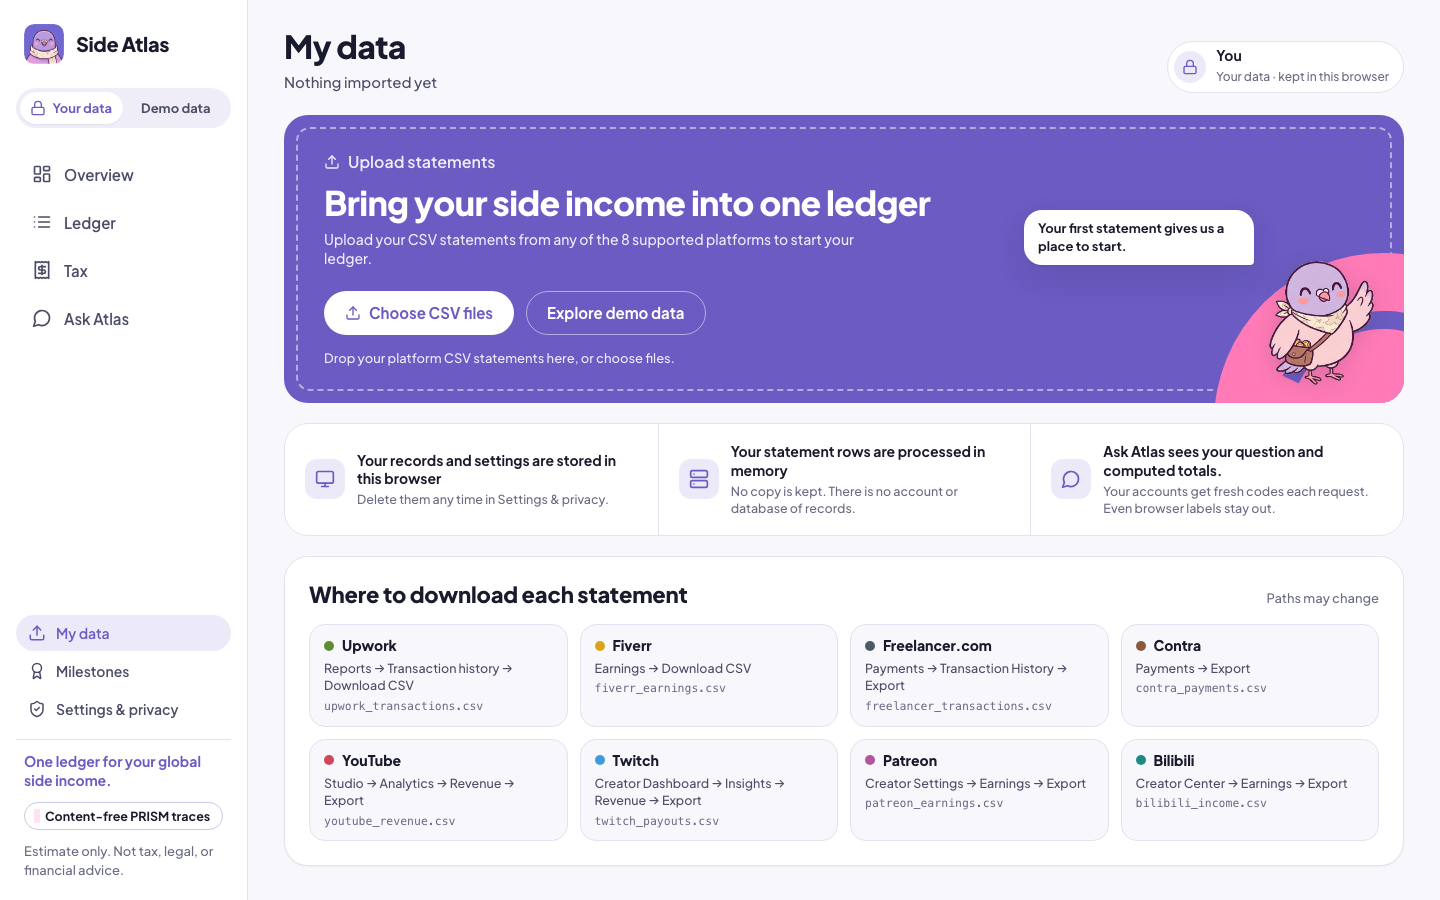
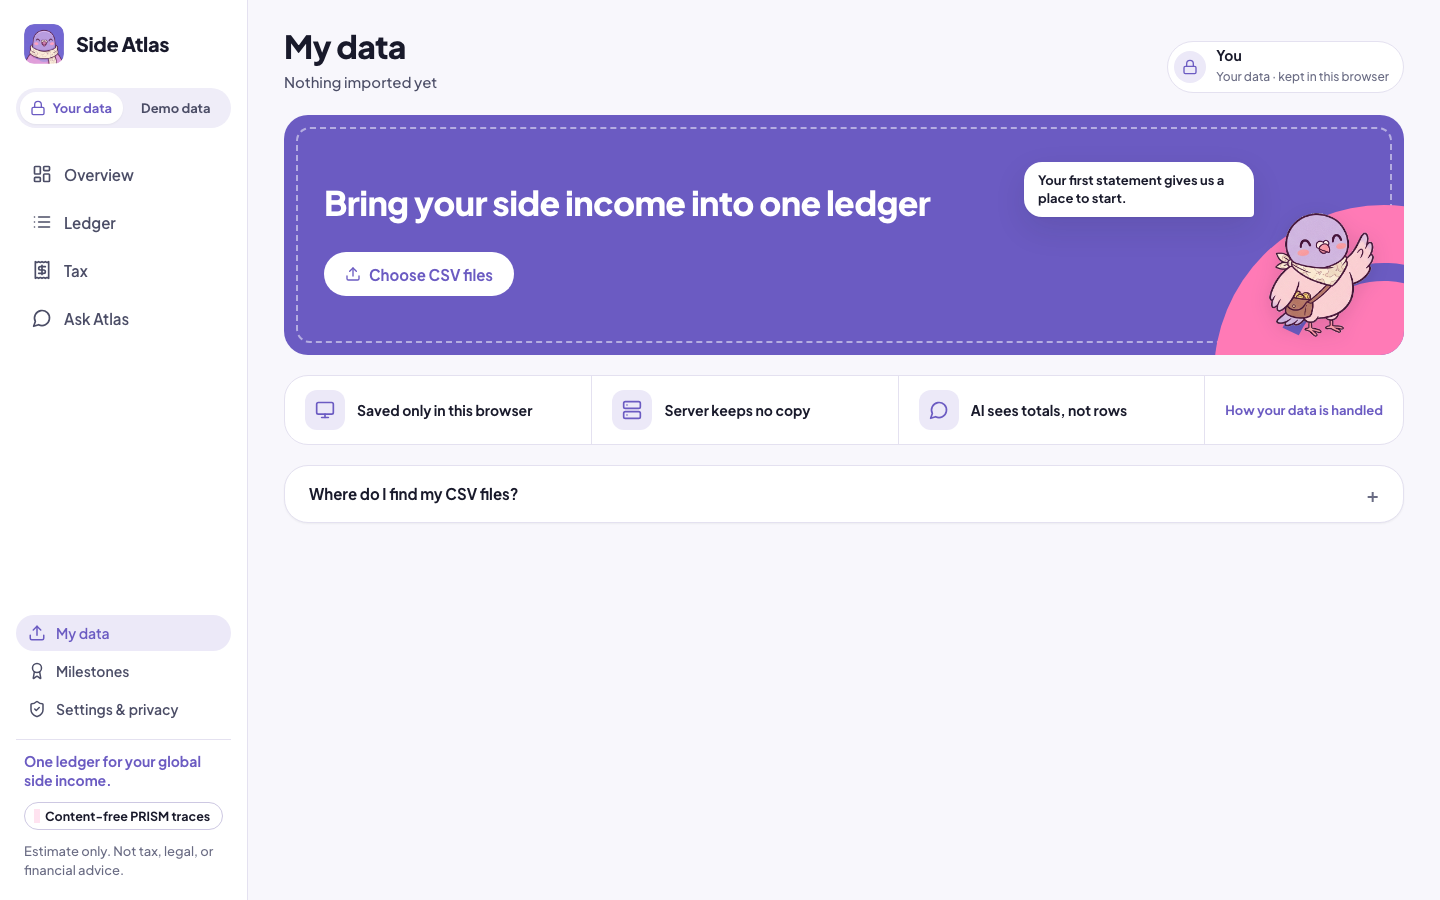
My data empty state: less text (kit v1.4.1)
One headline, the mascot bubble and one button; short privacy promises with a link to
Settings & privacy; download paths folded into a details card. Removed the drop hint,
Explore demo data and Try sample statements.

diff --git a/web/screens/mydata.js b/web/screens/mydata.js
@@ -4,7 +4,6 @@
 import { YOURS } from "../lib/copy.js";
 import { dateShort, esc, icon, monthShort, pcol, quarterOf } from "../lib/format.js";
 import { mascot } from "../lib/mascot.js";
-import { setMode } from "../lib/prefs.js";
 import * as store from "../lib/store.js";
 import { bodyBytes, labeler, prepare, shortLabel } from "../lib/statements.js";
 import { formats, invalidate, post } from "../lib/personal.js";
@@ -31,8 +30,9 @@ const MARGIN = 20_000; // room for the settings and the rest of a request body
 
 let notes = []; // [{ kind: "info" | "warn", text }] from the last import, shown until the next one
 
-export const promiseStrip = () => `<ul class="sa-promise c12">${[["monitor", X.PROMISE_BROWSER, X.PROMISE_BROWSER_SMALL], ["server", X.PROMISE_SERVER, X.PROMISE_SERVER_SMALL], ["ask", X.PROMISE_AI, X.PROMISE_AI_SMALL]]
-  .map(([ic, t, sm]) => `<li><span class="ic">${icon(ic)}</span><span>${t}<small>${sm}</small></span></li>`).join("")}</ul>`;
+// Kit v1.4.1: three short promises; the details live in Settings & privacy.
+const promiseStrip = () => `<ul class="sa-promise short c12">${[["monitor", X.PROMISE_BROWSER], ["server", X.PROMISE_SERVER], ["ask", X.PROMISE_AI]]
+  .map(([ic, t]) => `<li><span class="ic">${icon(ic)}</span><span>${t}</span></li>`).join("")}<li class="more"><a href="#settings">${X.PROMISE_MORE}</a></li></ul>`;
 
 const fileInput = `<input type="file" data-files accept=".csv,text/csv,.txt,.json,application/json" multiple hidden>`;
 
@@ -49,24 +49,20 @@ function emptyView(ctx) {
   <div class="sa-grid">
     ${ctx.data.persistent ? "" : `<div class="c12 sa-note warn">${icon("alert", "sm")}<span>${X.STORAGE_OFF}</span></div>`}
     ${noteList()}
-    <section class="sa-hero drop c12" data-drop>
+    <section class="sa-hero drop slim c12" data-drop>
       <div class="orb"></div>
       ${mascot("wave", "hero-mascot")}
       <div class="sa-speech mydata-speech">${X.EMPTY_MASCOT}</div>
-      <div class="lead" style="display:flex;gap:8px;align-items:center">${icon("upload", "sm")} Upload statements</div>
       <div class="title">${X.MYDATA_HEADLINE}</div>
-      <div class="sub" style="max-width:560px">${X.MYDATA_SUB}</div>
-      <div class="actions"><button type="button" class="sa-btn on-dark" data-choose>${icon("upload", "sm")} Choose CSV files</button><button type="button" class="sa-btn ghost-dark" data-demo>Explore demo data</button></div>
-      <div class="hint">${X.DROP_HINT}</div>
-      <div class="hint"><button type="button" class="hero-link" data-samples>Try sample statements</button> · ${X.SAMPLES_HINT}</div>
+      <div class="actions"><button type="button" class="sa-btn on-dark" data-choose>${icon("upload", "sm")} Choose CSV files</button></div>
       ${fileInput}
     </section>
     ${promiseStrip()}
     ${unread.length ? filesCard(ctx, null, null) : ""}
-    <section class="sa-card c12">
-      <div class="head"><h2>Where to download each statement</h2><span class="meta">Paths may change</span></div>
-      <div class="sa-where">${WHERE.map(([k, f, w]) => `<div><b><i class="sa-pdot" style="background:${pcol(k).fill}"></i>${LABEL[k]}</b><div class="path">${w}</div><span class="mono">${f}</span></div>`).join("")}</div>
-    </section>
+    <details class="sa-card sa-howto c12">
+      <summary>${X.WHERE_TITLE}</summary>
+      <div class="sa-where">${WHERE.map(([k, , w]) => `<div><b><i class="sa-pdot" style="background:${pcol(k).fill}"></i>${LABEL[k]}</b><div class="path">${w}</div></div>`).join("")}</div>
+    </details>
   </div>`;
 }
 
@@ -264,21 +260,10 @@ export async function loadBackup(file) {
   await check(next);
 }
 
-async function samples(ctx) {
-  const idx = await (await fetch("demo/samples/index.json", { cache: "no-store" })).json();
-  const files = await Promise.all(idx.files.map(async name => {
-    const blob = await (await fetch(`demo/samples/${name}`, { cache: "no-store" })).blob();
-    return new File([blob], name, { type: "text/csv" });
-  }));
-  await importAll(files, ctx);
-}
-
 export function mount(ctx, root) {
   const input = root.querySelector("[data-files]");
   root.querySelectorAll("[data-choose]").forEach(b => b.addEventListener("click", () => input?.click()));
   input?.addEventListener("change", () => importAll(input.files, ctx));
-  root.querySelector("[data-samples]")?.addEventListener("click", () => samples(ctx));
-  root.querySelector("[data-demo]")?.addEventListener("click", () => { setMode("demo"); location.hash = "#overview"; });
   const zone = root.querySelector("[data-drop]");
   if (zone) {
     zone.addEventListener("dragover", ev => { ev.preventDefault(); zone.classList.add("over"); });

diff --git a/web/lib/copy.js b/web/lib/copy.js
@@ -30,12 +30,12 @@ export const COPY = {
 // plus the lines the build needed that the kit doesn't draw (GPT-6 Astra, 2026-10-17, second block).
 export const YOURS = {
   MYDATA_HEADLINE: "Bring your side income into one ledger",
-  MYDATA_SUB: "Upload your CSV statements from any of the 8 supported platforms to start your ledger.",
-  DROP_HINT: "Drop your platform CSV statements here, or choose files.",
-  PROMISE_BROWSER: "Your records and settings are stored in this browser",
-  PROMISE_SERVER: "Your statement rows are processed in memory",
-  PROMISE_AI: "Ask Atlas sees your question and computed totals.",
   EMPTY_MASCOT: "Your first statement gives us a place to start.",
+  PROMISE_BROWSER: "Saved only in this browser",
+  PROMISE_MORE: "How your data is handled",
+  WHERE_TITLE: "Where do I find my CSV files?",
+  PROMISE_SERVER: "Server keeps no copy",
+  PROMISE_AI: "AI sees totals, not rows",
   IMPORTED_SUB: "Your {files} files added {records} records to your ledger in this browser.",
   SETTINGS_SUB: "Choose your tax home and display currency. Your set-aside rate is up to you.",
   PRIVACY_INTRO: "Before upload, your browser replaces account IDs with short labels such as \"Upwork · acct ••4821\".",
@@ -49,9 +49,6 @@ export const YOURS = {
   MAP_SERVER: "Your labeled statement rows reach the server for in-memory calculation. No copy is kept.",
   MAP_AI: "Your question goes to Ask Atlas as typed, with totals and fresh account codes. Statement rows stay out.",
   MAP_PRISM: "Your traces: step and tool names, timings, token counts and status. No question, answer, tool data or amounts.",
-  PROMISE_BROWSER_SMALL: "Delete them any time in Settings & privacy.",
-  PROMISE_SERVER_SMALL: "No copy is kept. There is no account or database of records.",
-  PROMISE_AI_SMALL: "Your accounts get fresh codes each request. Even browser labels stay out.",
   TAXHOME_HELP_CN: "Tax shows China's annual filing window and tax withheld by Bilibili. Pick Both if you also file in the US.",
   CURRENCY_HELP: "Choose USD or CNY. Your records keep their own currencies. CNY display converts USD records using your rate file, or ECB rates if you have no file for that currency.",
   FILES_NOTE: "Removing a file removes its records from this browser.",
@@ -92,7 +89,6 @@ export const YOURS = {
   NOT_READ: "{file} was not read",
   BACKUP_BAD: "This file is not a Side Atlas backup.",
   BACKUP_LOADED: "Backup loaded. {n} statements added.",
-  SAMPLES_HINT: "Fictional statements for Moon Spirit, the demo creator, labeled like your own files.",
   ASK_OFF_TITLE: "Ask Atlas unavailable for uploads",
   ASK_EXAMPLE_1: "How much did I actually earn across platforms last month?",
   ASK_EXAMPLE_2: "Which platform kept the most of each dollar I earned?",

diff --git a/design/Side-Atlas-Design-Kit v1/07-mockups/app.html b/design/Side-Atlas-Design-Kit v1/07-mockups/app.html
@@ -438,26 +438,25 @@ const WHERE = [
 const promise = () => [["monitor", X.PROMISE_BROWSER, X.PROMISE_BROWSER_SMALL], ["server", X.PROMISE_SERVER, X.PROMISE_SERVER_SMALL], ["ask", X.PROMISE_AI, X.PROMISE_AI_SMALL]]
   .map(([ic, t, sm]) => `<li><span class="ic">${icon(ic)}</span><span>${t}<small>${sm}</small></span></li>`).join("");
 
-/* ---------------- 10 · My data, empty ---------------- */
+/* ---------------- 10 · My data, empty (v1.4.1: one headline, one button, three short promises) ---------------- */
+const promiseShort = () => [["monitor", "Saved only in this browser"], ["server", "Server keeps no copy"], ["ask", "AI sees totals, not rows"]]
+  .map(([ic, t]) => `<li><span class="ic">${icon(ic)}</span><span>${t}</span></li>`).join("");
 function mydataEmpty() {
   return `
   <div class="sa-top"><div><h1>My data</h1><p>Nothing imported yet</p></div><div class="right">${you()}</div></div>
   <div class="sa-grid">
-    <section class="sa-hero drop c12">
+    <section class="sa-hero drop slim c12">
       <div class="orb"></div>
       <img class="sa-mascot hero-mascot" src="../02-logos/mascot/wave.png" alt="">
       <div class="sa-speech" style="right:150px;bottom:138px">${X.EMPTY_MASCOT}</div>
-      <div class="lead" style="display:flex;gap:8px;align-items:center">${icon("upload", "sm")} Upload statements</div>
       <div class="title">${X.MYDATA_HEADLINE}</div>
-      <div class="sub" style="max-width:560px">${X.MYDATA_SUB}</div>
-      <div class="actions"><a class="sa-btn on-dark">${icon("upload", "sm")} Choose CSV files</a><a class="sa-btn ghost-dark" href="#overview">Explore demo data</a></div>
-      <div class="hint">${X.DROP_HINT}</div>
+      <div class="actions"><a class="sa-btn on-dark">${icon("upload", "sm")} Choose CSV files</a></div>
     </section>
-    <ul class="sa-promise c12">${promise()}</ul>
-    <section class="sa-card c12">
-      <div class="head"><h2>Where to download each statement</h2><span class="meta">Paths may change</span></div>
-      <div class="sa-where">${WHERE.map(([k, l, f, w]) => `<div><b><i class="sa-pdot" style="background:${PCOL(k).fill}"></i>${l}</b><div class="path">${w}</div><span class="mono">${f}</span></div>`).join("")}</div>
-    </section>
+    <ul class="sa-promise short c12">${promiseShort()}<li class="more"><a href="#privacy">How your data is handled</a></li></ul>
+    <details class="sa-card sa-howto c12">
+      <summary>Where do I find my CSV files?</summary>
+      <div class="sa-where">${WHERE.map(([k, l, f, w]) => `<div><b><i class="sa-pdot" style="background:${PCOL(k).fill}"></i>${l}</b><div class="path">${w}</div></div>`).join("")}</div>
+    </details>
   </div>`;
 }
 

diff --git a/design/Side-Atlas-Design-Kit v1/05-css/side-atlas-ui-reference.css b/design/Side-Atlas-Design-Kit v1/05-css/side-atlas-ui-reference.css
@@ -460,3 +460,16 @@ body { background: var(--sa-page); color: var(--sa-ink); font: var(--sa-body); -
 .sa-latest b { display: block; font: 800 16px/1.25 var(--sa-font); }
 .sa-latest span.s { font: var(--sa-small); color: var(--sa-text-mid); }
 .sa-latest a { color: var(--sa-forest); font: 700 13px/1 var(--sa-font); text-decoration: none; white-space: nowrap; display: flex; align-items: center; gap: 4px; }
+
+/* v1.4.1 · My data empty state, trimmed */
+.sa-hero.drop.slim { display: flex; flex-direction: column; justify-content: center; min-height: 240px; }
+.sa-promise.short { grid-template-columns: repeat(3, 1fr) auto; }
+.sa-promise.short li { padding: 14px 20px; }
+.sa-promise.short li.more { display: flex; font: 700 13px/1.2 var(--sa-font); }
+.sa-promise.short li.more a { color: var(--sa-forest); text-decoration: none; white-space: nowrap; }
+.sa-howto { padding: 0; }
+.sa-howto > summary { list-style: none; cursor: pointer; padding: 18px 24px; font: 700 15px/1.2 var(--sa-font); color: var(--sa-ink); display: flex; justify-content: space-between; align-items: center; }
+.sa-howto > summary::-webkit-details-marker { display: none; }
+.sa-howto > summary::after { content: "+"; font: 600 20px/1 var(--sa-font); color: var(--sa-meta); }
+.sa-howto[open] > summary::after { content: "\2212"; }
+.sa-howto .sa-where { padding: 0 24px 20px; }

diff --git a/web/styles/ui-reference.css b/web/styles/ui-reference.css
@@ -323,3 +323,16 @@ body { background: var(--sa-page); color: var(--sa-ink); font: var(--sa-body); -
 .sa-btn.danger.solid:hover { box-shadow: inset 0 0 0 999px var(--sa-scrim); }
 .sa-btn.ghost { background: transparent; border-color: transparent; color: var(--sa-text-mid); }
 .sa-btn.ghost:hover { color: var(--sa-ink); }
+
+/* v1.4.1 · My data empty state, trimmed */
+.sa-hero.drop.slim { display: flex; flex-direction: column; justify-content: center; min-height: 240px; }
+.sa-promise.short { grid-template-columns: repeat(3, 1fr) auto; }
+.sa-promise.short li { padding: 14px 20px; }
+.sa-promise.short li.more { display: flex; font: 700 13px/1.2 var(--sa-font); }
+.sa-promise.short li.more a { color: var(--sa-forest); text-decoration: none; white-space: nowrap; }
+.sa-howto { padding: 0; }
+.sa-howto > summary { list-style: none; cursor: pointer; padding: 18px 24px; font: 700 15px/1.2 var(--sa-font); color: var(--sa-ink); display: flex; justify-content: space-between; align-items: center; }
+.sa-howto > summary::-webkit-details-marker { display: none; }
+.sa-howto > summary::after { content: "+"; font: 600 20px/1 var(--sa-font); color: var(--sa-meta); }
+.sa-howto[open] > summary::after { content: "\2212"; }
+.sa-howto .sa-where { padding: 0 24px 20px; }

diff --git a/web/styles/app.css b/web/styles/app.css
@@ -253,7 +253,6 @@ a.sa-prism { text-decoration: none; }
 .sa-kpi .meta b.warn { color: var(--sa-warn-text); }
 .sa-who .av .sa-icon { color: var(--sa-forest); }
 .sa-hero .mydata-speech { right: 150px; bottom: 138px; }
-.sa-hero .hero-link { background: none; border: 0; padding: 0; color: var(--sa-on-forest); font: 700 13px/1.4 var(--sa-font); text-decoration: underline; text-underline-offset: 3px; cursor: pointer; }
 .sa-hero.drop.over::before { border-color: var(--sa-on-forest); }
 .sa-grid.over { outline: 2px dashed var(--sa-forest); outline-offset: 8px; border-radius: var(--sa-r-card); }
 .sa-dataact .btns { grid-row: 1 / span 2; grid-column: 2; display: flex; flex-direction: column; gap: 6px; align-items: stretch; }

diff --git a/design/Side-Atlas-Design-Kit v1/Side-Atlas-Design-Decisions.md b/design/Side-Atlas-Design-Kit v1/Side-Atlas-Design-Decisions.md
@@ -2,6 +2,14 @@
 
 The single place where visual rulings live. Changing a ruling means a new kit version, not an edit to one component.
 
+## v1.4.1 · 17 October 2026 · My data empty state (signed off in chat)
+
+| # | Decision | Why |
+|---|---|---|
+| 56 | **My data, nothing imported:** title with "Nothing imported yet", one hero headline, the mascot speech bubble and one button (Choose CSV files). Removed: the hero eyebrow, the 8-platform sentence, the drop hint, "Explore demo data" (the sidebar switch does this) and "Try sample statements". | User: the page had too much text; asked to keep the subtitle and the speech bubble and to drop the hint and the sample button. |
+| 57 | **Privacy strip, short form:** three short promises (Saved only in this browser · Server keeps no copy · AI sees totals, not rows) plus a "How your data is handled" link to Settings & privacy, where the full privacy map lives. | Details moved one click away instead of under every promise. |
+| 58 | **Where to download** is a collapsed `details` card ("Where do I find my CSV files?"); file names are dropped, the menu paths stay. | Most visits don't need it. |
+
 ## v1.4 · 17 October 2026 · current standard (drawn; waiting for sign-off before build)
 
 | # | Decision | Why |
